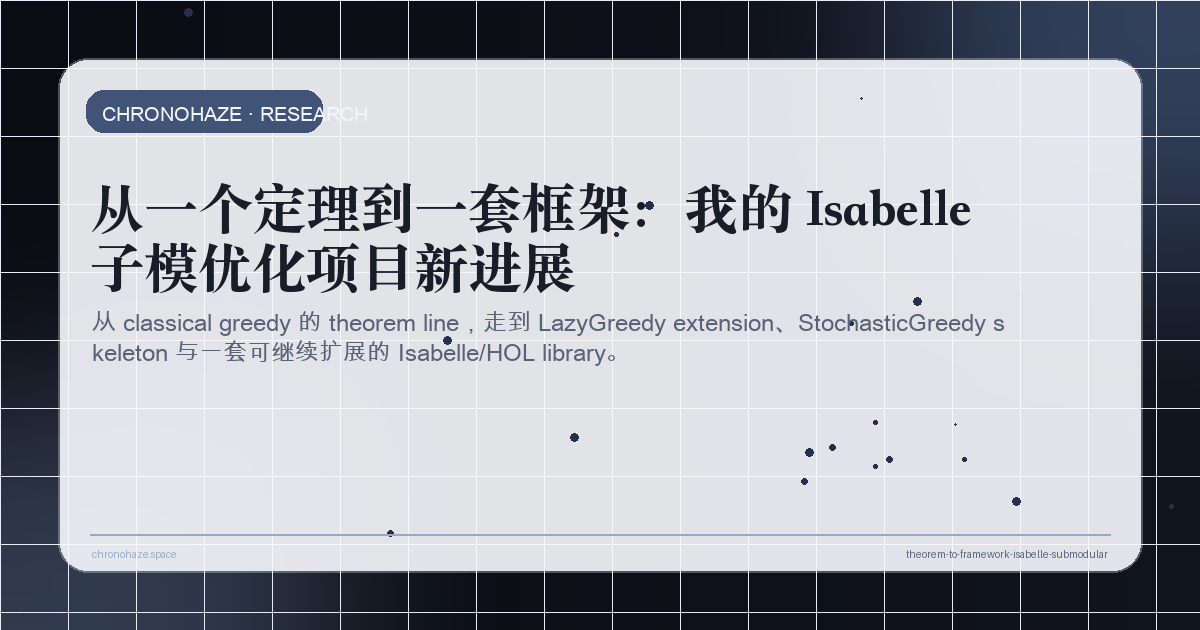
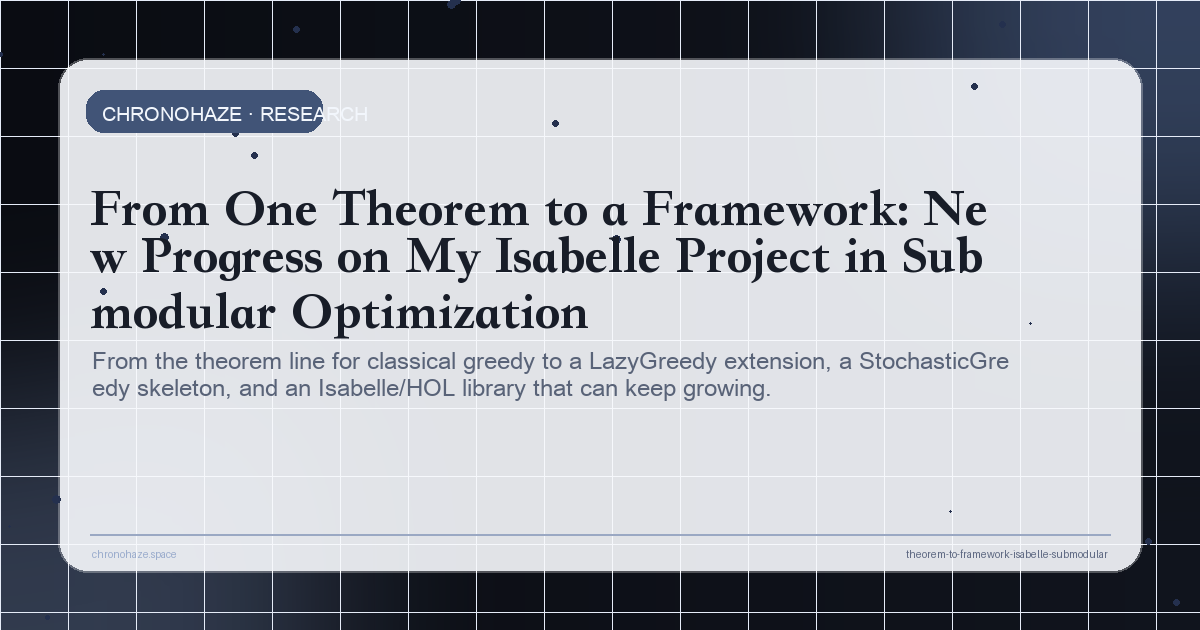
Align math OG title with article title

Changed region(s): [[0.0617, 0.2714, 0.8325, 0.6333], [0.37, 0.0, 0.4008, 0.0302]]

diff --git a/scripts/build_social_cards_and_meta.py b/scripts/build_social_cards_and_meta.py
@@ -708,8 +708,8 @@ def build_cards_and_patch_heads(root: Path) -> None:
         if rel_url == "post/theorem-to-framework-isabelle-submodular.html":
             render_site_card_image(
                 rel_url,
-                str(item.get("title") or ""),
-                str(item.get("excerpt") or ""),
+                str(item.get("title_en") or item.get("title") or ""),
+                str(item.get("excerpt_en") or item.get("excerpt") or ""),
                 root / out_rel,
                 label_override="CHRONOHAZE · RESEARCH",
                 base_override=(21, 27, 40),
